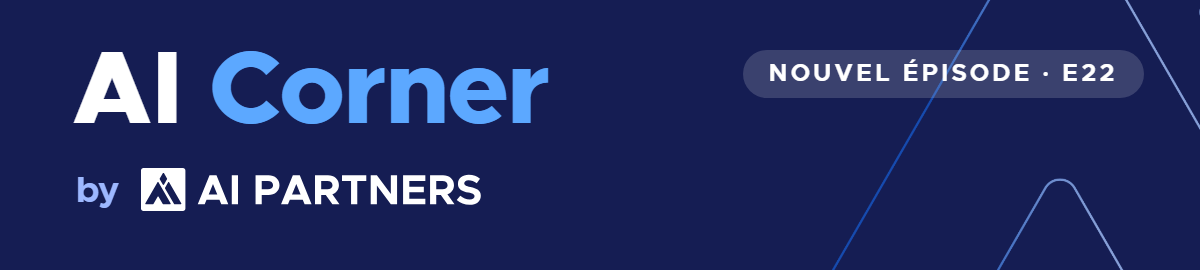
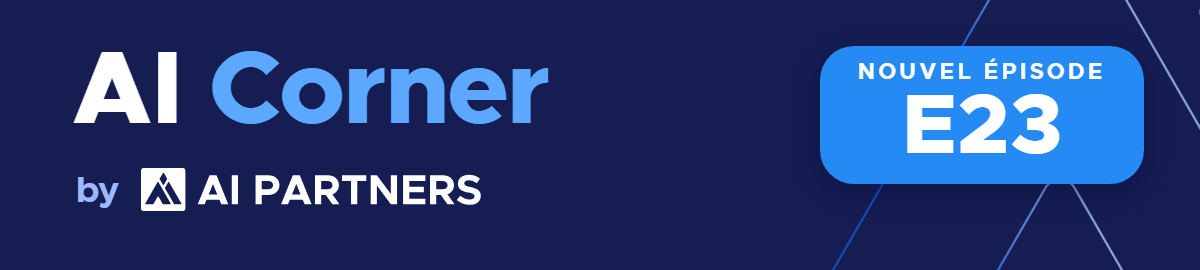
Newsletter E23 : retour au gabarit Duo, même forme et même copywriting que E22 (mosaïque écartée par l'équipe) ; module HubSpot avec jeton LIEN_EPISODE_YOUTUBE (retour d'Arthur 02/11)

Changed region(s): [[0.6167, 0.1481, 0.9558, 0.6815]]

diff --git a/docs/newsletters/E23/email.html b/docs/newsletters/E23/email.html
@@ -1,12 +1,24 @@
 <!doctype html>
 <html lang="fr"><head><meta charset="utf-8"><meta name="viewport" content="width=device-width,initial-scale=1">
 <meta name="color-scheme" content="light"><meta name="supported-color-schemes" content="light">
-<title>🎙 AI Corner E23 : réinventer ses processus avec l&#x27;IA</title>
+<title>🎙 AI Corner E23 : comment Coty déploie l&#x27;IA à grande échelle</title>
 <style>@media (max-width:600px){.col{display:block!important;width:100%!important;box-sizing:border-box!important}.pad{padding-left:22px!important;padding-right:22px!important}.card{display:block!important;width:100%!important;height:auto!important;margin:0 0 12px 0!important}}</style></head>
-<body style="margin:0;padding:0;background:#000000">
-<div style="display:none;max-height:0;overflow:hidden;opacity:0">Nicolas Comestaz (Coty) : 3000 agents créés, et maintenant ? Sa méthode.</div>
-<table role="presentation" width="100%" cellpadding="0" cellspacing="0" bgcolor="#000000"><tr><td align="center" style="padding:24px 12px">
-<table role="presentation" width="680" cellpadding="0" cellspacing="0" bgcolor="#000000" style="width:100%;max-width:680px;border-radius:16px;overflow:hidden">
-<tr><td bgcolor="#000000" height="24" style="font-size:0;line-height:0;height:24px">&nbsp;</td></tr><tr><td bgcolor="#000000" style="font-size:0;line-height:0"><a href="{{lien_youtube}}" style="text-decoration:none"><img src="https://arthurw31.github.io/ai-partners-podcast-content-machine/newsletters/E23/mosaique_entete.png" width="680" alt="AI Corner by AI Partners, épisode E23" style="display:block;width:100%;max-width:680px;border:0"></a></td></tr><tr><td bgcolor="#000000" style="font-size:0;line-height:0"><a href="{{lien_youtube}}" style="text-decoration:none"><img src="https://arthurw31.github.io/ai-partners-podcast-content-machine/newsletters/E23/mosaique_miniature.jpg" width="680" alt="Comment Coty déploie l’IA à grande échelle avec Microsoft Copilot" style="display:block;width:100%;max-width:680px;border:0"></a></td></tr><tr><td bgcolor="#000000" style="font-size:0;line-height:0"><a href="{{lien_youtube}}" style="text-decoration:none"><img src="https://arthurw31.github.io/ai-partners-podcast-content-machine/newsletters/E23/mosaique_haut.png" width="680" alt="Comment Coty déploie l’IA à grande échelle avec Microsoft Copilot Les agents IA se multiplient, l’impact reste difficile à mesurer. Comment passer de l’expérimentation aux processus métier ? Les thèmes abordés. Regarder l&#x27;épisode. 09:32 Former ses équipes à Copilot : Des formations terrain et en ligne, répétées pour mettre vite tout le monde à niveau, après un premier déploiement de 1 000 licences. 12:06 Choisir Microsoft Copilot : Pourquoi Coty l’a choisi : intégré à l’écosystème Microsoft, une sécurité rassurante, et de quoi créer ses propres agents. 22:47 Organiser son équipe IA : Une équipe centrale de 4 pôles et un référent Data &amp; IA dans chaque fonction, pour évangéliser au plus près des métiers. 25:23 Valider les cas d’usage IA : Chaque cas d’usage passe par un comité qui vérifie sécurité et conformité avant déploiement." style="display:block;width:100%;max-width:680px;border:0"></a></td></tr><tr><td bgcolor="#000000" style="font-size:0;line-height:0"><a href="https://calendar.google.com/calendar/appointments/schedules/AcZssZ0_yeSZr-eANdqFosuQLg2jE2smXxRU-eIMCXBA0WC3CynV7uSHwNeGX8FK-0MHDtpLcNiC4f9_?gv=true" style="text-decoration:none"><img src="https://arthurw31.github.io/ai-partners-podcast-content-machine/newsletters/E23/mosaique_fin.png" width="680" alt="Ma phrase préférée : le Head of AI est un architecte. Il comprend assez la technique pour challenger, sans poser le carrelage lui-même. Thomas Spitz Vos équipes testent l&#x27;IA. Et après ? Réserver un échange avec Thomas" style="display:block;width:100%;max-width:680px;border:0"></a></td></tr><tr><td bgcolor="#000000" align="center" style="padding:0 16px"><table role="presentation" width="100%" bgcolor="#FFFFFF" cellpadding="0" cellspacing="0"><tr><td align="center" bgcolor="#FFFFFF" style="padding:0 0 4px"><table role="presentation" align="center" cellpadding="0" cellspacing="0"><tr><td align="center" valign="middle" width="100" style="padding:0 4px;font-size:0;line-height:0"><a href="https://www.youtube.com/playlist?list=PLeeolan_fqxdZbU5xZqEwo12pbqK3fH5N" style="text-decoration:none"><img src="https://arthurw31.github.io/ai-partners-podcast-content-machine/newsletters/E23/mosaique_youtube.png" width="100" height="100" alt="Youtube" style="display:block;width:100px;height:100px;border:0"></a></td><td align="center" valign="middle" width="100" style="padding:0 4px;font-size:0;line-height:0"><a href="https://open.spotify.com/show/4chUmiipM4KiK4sEdL9BeP" style="text-decoration:none"><img src="https://arthurw31.github.io/ai-partners-podcast-content-machine/newsletters/E23/mosaique_spotify.png" width="100" height="100" alt="Spotify" style="display:block;width:100px;height:100px;border:0"></a></td><td align="center" valign="middle" width="100" style="padding:0 4px;font-size:0;line-height:0"><a href="https://podcast.ausha.co/ai-partners-podcast" style="text-decoration:none"><img src="https://arthurw31.github.io/ai-partners-podcast-content-machine/newsletters/E23/mosaique_ausha.png" width="100" height="100" alt="Ausha" style="display:block;width:100px;height:100px;border:0"></a></td></tr></table></td></tr></table></td></tr><tr><td bgcolor="#000000" style="font-size:0;line-height:0"><img src="https://arthurw31.github.io/ai-partners-podcast-content-machine/newsletters/E23/mosaique_plateformes_bas.png" width="680" alt="" style="display:block;width:100%;max-width:680px;border:0"></td></tr>
-<tr><td bgcolor="#000000" class="pad" style="padding:22px 40px;font-family:Helvetica, Arial, sans-serif;font-size:12px;line-height:1.6;color:#B5B5B5">AI Corner, le podcast d'AI Partners.<!--FOOT--></td></tr>
+<body style="margin:0;padding:0;background:#E9EEF9">
+<div style="display:none;max-height:0;overflow:hidden;opacity:0">Nicolas Comestaz (Coty) : former à Copilot, structurer, gouverner, sa méthode</div>
+<table role="presentation" width="100%" cellpadding="0" cellspacing="0" bgcolor="#E9EEF9"><tr><td align="center" style="padding:24px 12px">
+<table role="presentation" width="680" cellpadding="0" cellspacing="0" bgcolor="#FFFFFF" style="width:100%;max-width:680px;border-radius:16px;overflow:hidden">
+<tr><td bgcolor="#151D53"><a href="{{lien_youtube}}" style="text-decoration:none"><img src="https://arthurw31.github.io/ai-partners-podcast-content-machine/newsletters/E23/entete.png" width="680" alt="AI Corner by AI Partners · E23" style="display:block;width:100%;max-width:680px;border:0"></a></td></tr>
+<tr><td><a href="{{lien_youtube}}"><img src="https://arthurw31.github.io/ai-partners-podcast-content-machine/newsletters/E23/miniature_sans_play.jpg" width="680" alt="Thomas Spitz et Nicolas Comestaz" style="display:block;width:100%;max-width:680px"></a></td></tr>
+<tr><td bgcolor="#151D53" class="pad" style="padding:26px 40px 30px 40px;font-family:Helvetica, Arial, sans-serif"><div style="font-size:28px;font-weight:bold;color:#FFFFFF;line-height:1.2">Passer de l&#x27;expérimentation à l&#x27;impact</div><div style="font-size:15px;color:#9DB8FF;padding-top:12px"><strong style="color:#FFFFFF">Thomas Spitz</strong> reçoit <strong style="color:#FFFFFF">Nicolas Comestaz</strong> · VP Global Data &amp; AI Center of Excellence chez Coty</div></td></tr>
+<tr><td bgcolor="#FFFFFF" class="pad" style="padding:30px 40px 0 40px;font-family:Helvetica, Arial, sans-serif;font-size:17px;line-height:1.6;color:#1D2C76"><div style="margin:0 0 16px 0;padding:18px 22px;background-color:#F1F6FD;border-radius:10px;font-size:22px;line-height:1.35;font-weight:bold;color:#151D53">Comment passer de l&#x27;expérimentation à l&#x27;impact quand les agents IA se multiplient dans l&#x27;entreprise ?</div><p style="margin:0 0 16px 0;font-size:17px;line-height:1.6;color:#1D2C76">Vos équipes testent, les cas d&#x27;usage s&#x27;accumulent, et pourtant l&#x27;impact reste difficile à mesurer.</p><p style="margin:0 0 14px 0">Pour ce nouvel épisode d&#x27;AI Corner, j&#x27;ai le plaisir de recevoir <strong>Nicolas Comestaz</strong>, VP Global Data &amp; AI Center of Excellence chez Coty, un des leaders mondiaux de la beauté.</p><p style="margin:0 0 14px 0">Il a pris cette fonction, créée il y a deux ans, après avoir mené une transformation data et IA côté métier sur le média et le marketing digital, et il a passé les vingt dernières années au contact des grandes transformations digitales, notamment chez LVMH.</p><p style="margin:0 0 14px 0">Avec lui, j&#x27;ai voulu comprendre concrètement ce qu&#x27;il a mis en place chez Coty : l&#x27;évangélisation, la gouvernance, puis ce passage délicat de l&#x27;expérimentation à l&#x27;impact réel sur les processus.</p></td></tr>
+<tr><td align="center"><table role="presentation" cellpadding="0" cellspacing="0" style="margin:28px auto"><tr><td bgcolor="#484E78" style="border-radius:999px;padding:0 0 4px 0"><table role="presentation" cellpadding="0" cellspacing="0"><tr><td bgcolor="#151D53" style="border-radius:999px"><table role="presentation" cellpadding="0" cellspacing="0"><tr><td valign="middle" style="padding:16px 12px 16px 36px;line-height:1"><a href="{{lien_youtube}}" style="font-family:Helvetica, Arial, sans-serif;font-size:16px;font-weight:bold;letter-spacing:.04em;color:#FFFFFF;text-decoration:none">REGARDER L&#x27;ÉPISODE</a></td><td valign="middle" width="24" style="padding:0 30px 0 0;line-height:0;font-size:0"><a href="{{lien_youtube}}" style="text-decoration:none"><img src="https://arthurw31.github.io/ai-partners-podcast-content-machine/newsletters/E23/bouton_play.png" width="24" height="24" alt="" style="display:block;width:24px;height:24px;border:0"></a></td></tr></table></td></tr></table></td></tr></table></td></tr>
+<tr><td class="pad" style="padding:6px 34px 0 34px;font-family:Helvetica, Arial, sans-serif">
+ <div style="font-size:20px;font-weight:bold;color:#151D53;padding:0 6px 14px 6px">Au programme de cet épisode</div>
+ <table role="presentation" width="100%" cellpadding="0" cellspacing="0"><tr><td style="font-size:0;line-height:0"><div class="card" style="display:inline-block;vertical-align:top;width:48.5%;margin:0 .75% 12px .75%;box-sizing:border-box;background-color:#F1F6FD;border-radius:14px;padding:16px 16px 18px 16px;height:203px;text-align:left;font-family:Helvetica, Arial, sans-serif;font-size:14px;line-height:1.5;color:#1D2C76"><table role="presentation" width="100%" cellpadding="0" cellspacing="0"><tr><td style="font-size:22px;font-weight:bold;color:#258AF3;padding-bottom:6px;font-family:Helvetica, Arial, sans-serif">01</td><td align="right" valign="top" style="padding-bottom:6px"><img src="https://arthurw31.github.io/ai-partners-podcast-content-machine/newsletters/E23/icone_users.png" width="28" height="28" alt="" style="display:block;width:28px;height:28px;border:0"></td></tr></table><strong style="color:#151D53;font-size:16px;line-height:1.3">Former ses équipes à Copilot</strong><br>Près de 1000 licences pour démarrer, puis le programme SuperCharge AI : des formations terrain et en ligne, répétées pour mettre vite tout le monde à niveau.</div><div class="card" style="display:inline-block;vertical-align:top;width:48.5%;margin:0 .75% 12px .75%;box-sizing:border-box;background-color:#F1F6FD;border-radius:14px;padding:16px 16px 18px 16px;height:203px;text-align:left;font-family:Helvetica, Arial, sans-serif;font-size:14px;line-height:1.5;color:#1D2C76"><table role="presentation" width="100%" cellpadding="0" cellspacing="0"><tr><td style="font-size:22px;font-weight:bold;color:#258AF3;padding-bottom:6px;font-family:Helvetica, Arial, sans-serif">02</td><td align="right" valign="top" style="padding-bottom:6px"><img src="https://arthurw31.github.io/ai-partners-podcast-content-machine/newsletters/E23/icone_target.png" width="28" height="28" alt="" style="display:block;width:28px;height:28px;border:0"></td></tr></table><strong style="color:#151D53;font-size:16px;line-height:1.3">Choisir Microsoft Copilot</strong><br>Pourquoi Coty a retenu l&#x27;écosystème Microsoft : un copilote intégré, des contrats et une sécurité rassurants, et de quoi créer ses propres agents (Azure Foundry).</div><div class="card" style="display:inline-block;vertical-align:top;width:48.5%;margin:0 .75% 12px .75%;box-sizing:border-box;background-color:#F1F6FD;border-radius:14px;padding:16px 16px 18px 16px;height:203px;text-align:left;font-family:Helvetica, Arial, sans-serif;font-size:14px;line-height:1.5;color:#1D2C76"><table role="presentation" width="100%" cellpadding="0" cellspacing="0"><tr><td style="font-size:22px;font-weight:bold;color:#258AF3;padding-bottom:6px;font-family:Helvetica, Arial, sans-serif">03</td><td align="right" valign="top" style="padding-bottom:6px"><img src="https://arthurw31.github.io/ai-partners-podcast-content-machine/newsletters/E23/icone_cycle.png" width="28" height="28" alt="" style="display:block;width:28px;height:28px;border:0"></td></tr></table><strong style="color:#151D53;font-size:16px;line-height:1.3">Organiser son équipe IA</strong><br>Une équipe centrale de quatre pôles et des Data &amp; AI domain owners dans chaque fonction : un modèle Hub &amp; Spoke pour évangéliser au plus près des métiers.</div><div class="card" style="display:inline-block;vertical-align:top;width:48.5%;margin:0 .75% 12px .75%;box-sizing:border-box;background-color:#F1F6FD;border-radius:14px;padding:16px 16px 18px 16px;height:203px;text-align:left;font-family:Helvetica, Arial, sans-serif;font-size:14px;line-height:1.5;color:#1D2C76"><table role="presentation" width="100%" cellpadding="0" cellspacing="0"><tr><td style="font-size:22px;font-weight:bold;color:#258AF3;padding-bottom:6px;font-family:Helvetica, Arial, sans-serif">04</td><td align="right" valign="top" style="padding-bottom:6px"><img src="https://arthurw31.github.io/ai-partners-podcast-content-machine/newsletters/E23/icone_bulb.png" width="28" height="28" alt="" style="display:block;width:28px;height:28px;border:0"></td></tr></table><strong style="color:#151D53;font-size:16px;line-height:1.3">Valider les cas d&#x27;usage</strong><br>Tout cas d&#x27;usage déployé par une fonction passe par l&#x27;AI Board, qui en revoit la sécurité et la conformité pour ne pas mettre l&#x27;organisation à risque.</div></td></tr></table></td></tr>
+<tr><td align="center" style="padding:10px 24px 0 24px;font-family:Helvetica, Arial, sans-serif;font-size:16px;font-weight:bold;color:#151D53">Retrouvez l'épisode complet sur YouTube</td></tr>
+<tr><td align="center" style="padding:14px 24px 0 24px"><a href="{{lien_youtube}}"><img src="https://arthurw31.github.io/ai-partners-podcast-content-machine/newsletters/E23/episode_youtube.jpg" width="632" alt="Comment Coty déploie l’IA à grande échelle avec Microsoft Copilot" style="display:block;width:100%;max-width:632px;border-radius:14px"></a></td></tr>
+<tr><td bgcolor="#FFFFFF" class="pad" style="padding:30px 40px 36px 40px;font-family:Helvetica, Arial, sans-serif;font-size:17px;line-height:1.6;color:#1D2C76"><p style="margin:0 0 18px 0">Ce qui m&#x27;a frappé dans cette conversation, c&#x27;est sa comparaison du Head of AI avec un architecte : celui qui comprend assez la technique pour challenger, sans prétendre poser le carrelage. J&#x27;espère que cet échange vous sera aussi utile qu&#x27;il l&#x27;a été pour moi.</p><p style="margin:0;font-weight:bold;color:#151D53">Thomas Spitz<br>CEO et fondateur d'AI Partners</p></td></tr>
+<tr><td bgcolor="#F1F6FD" align="center" class="pad" style="padding:34px 40px 36px 40px;font-family:Helvetica, Arial, sans-serif"><div style="font-size:22px;font-weight:bold;color:#151D53;line-height:1.3">Vos équipes testent l&#x27;IA. Et après ?</div><div style="font-size:16px;line-height:1.55;color:#1D2C76;padding-top:8px">Passons de l&#x27;expérimentation à l&#x27;impact : 30 minutes avec moi pour en parler.</div><table role="presentation" cellpadding="0" cellspacing="0" style="margin:22px auto 0 auto"><tr><td bgcolor="#484E78" style="border-radius:999px;padding:0 0 4px 0"><table role="presentation" cellpadding="0" cellspacing="0"><tr><td bgcolor="#151D53" style="border-radius:999px"><a href="https://calendar.google.com/calendar/appointments/schedules/AcZssZ0_yeSZr-eANdqFosuQLg2jE2smXxRU-eIMCXBA0WC3CynV7uSHwNeGX8FK-0MHDtpLcNiC4f9_?gv=true" style="display:inline-block;padding:16px 34px;font-family:Helvetica, Arial, sans-serif;font-size:16px;font-weight:bold;color:#FFFFFF;text-decoration:none;letter-spacing:.02em">Réserver un échange avec Thomas</a></td></tr></table></td></tr></table></td></tr>
+<tr><td bgcolor="#1D2C76"><a href="https://www.youtube.com/playlist?list=PLeeolan_fqxdZbU5xZqEwo12pbqK3fH5N" style="text-decoration:none"><img src="https://arthurw31.github.io/ai-partners-podcast-content-machine/newsletters/E23/plateformes_titre.png" width="680" alt="Écoutez AI Corner partout" style="display:block;width:100%;max-width:680px;border:0"></a></td></tr><tr><td bgcolor="#1D2C76" align="center" style="padding:0 14px 38px 14px"><table role="presentation" align="center" cellpadding="0" cellspacing="0"><tr><td align="center" valign="middle" width="96" style="padding:0 8px"><a href="https://www.youtube.com/playlist?list=PLeeolan_fqxdZbU5xZqEwo12pbqK3fH5N" style="text-decoration:none"><img src="https://arthurw31.github.io/ai-partners-podcast-content-machine/newsletters/E23/plateforme_youtube.png" width="80" height="80" alt="YouTube" style="display:block;width:80px;height:80px;border:0"></a></td><td align="center" valign="middle" width="96" style="padding:0 8px"><a href="https://open.spotify.com/show/4chUmiipM4KiK4sEdL9BeP" style="text-decoration:none"><img src="https://arthurw31.github.io/ai-partners-podcast-content-machine/newsletters/E23/plateforme_spotify.png" width="80" height="80" alt="Spotify" style="display:block;width:80px;height:80px;border:0"></a></td><td align="center" valign="middle" width="96" style="padding:0 8px"><a href="https://podcast.ausha.co/ai-partners-podcast" style="text-decoration:none"><img src="https://arthurw31.github.io/ai-partners-podcast-content-machine/newsletters/E23/plateforme_ausha.png" width="80" height="80" alt="Ausha" style="display:block;width:80px;height:80px;border:0"></a></td></tr></table></td></tr>
+<tr><td bgcolor="#151D53" class="pad" style="padding:22px 40px;font-family:Helvetica, Arial, sans-serif;font-size:12px;line-height:1.6;color:#9DB8FF">AI Corner, le podcast d'AI Partners.<br>Vous recevez ce mail car vous êtes en contact avec AI Partners. <a href="{{lien_desinscription}}" style="color:#8A93B2">Se désinscrire</a></td></tr>
 </table></td></tr></table></body></html>

diff --git a/clipper/newsletter.py b/clipper/newsletter.py
@@ -491,13 +491,12 @@ def send_ready(brand, ep: Path, mail: dict) -> dict:
         h = h.replace("AI Corner, le podcast d'AI Partners.</p>", "AI Corner, le podcast d'AI Partners." + unsub + "</p>", 1)
     out = d / "email_a_envoyer.html"
     out.write_text(h, encoding="utf-8")
-    if "mosaique_haut" in h and "{{lien_youtube}}" in h:     # mosaïque, lien pas encore connu : jeton à remplacer (HubSpot lirait {{ }} comme du HubL)
-        (d / "email_hubspot_module.html").write_text(hubspot_module(h.replace("{{lien_youtube}}", "LIEN_EPISODE_YOUTUBE")), encoding="utf-8")
-    elif "{{lien_youtube}}" not in h:                    # module HubSpot : seulement si le lien de l'épisode est connu
-        try:
-            (d / "email_hubspot_module.html").write_text(hubspot_module(h), encoding="utf-8")
-        except RuntimeError:                             # gabarit sans les 4 cartes du Duo (ex. « mosaique », en images) : pas de module
-            pass
+    link_unknown = "{{lien_youtube}}" in h               # lien de l'épisode pas encore connu : jeton à remplacer (HubSpot lirait {{ }} comme du HubL)
+    try:
+        (d / "email_hubspot_module.html").write_text(
+            hubspot_module(h.replace("{{lien_youtube}}", "LIEN_EPISODE_YOUTUBE") if link_unknown else h), encoding="utf-8")
+    except RuntimeError:                                 # gabarit sans cartes reconnues : pas de module
+        pass
     (pub / "email.html").write_text(h, encoding="utf-8")
     subject = (src / "objet.txt").read_text(encoding="utf-8") if (src / "objet.txt").exists() else ""
     m = re.search(r"Objet\s*:\s*(.+)", subject)

diff --git a/CLAUDE.md b/CLAUDE.md
@@ -134,7 +134,10 @@ Puis noter la demande et sa date dans la section concernée de ce fichier.
   annoncer en une ligne le temps attendu d'après le tableau de [docs/FRAMEWORK.md](docs/FRAMEWORK.md) / README (ex. « rendu de 4 shorts :
   ≈ 40 min »), puis la durée réelle si elle s'en écarte. Règle de comportement (pas de code) : dans le skill `podcast-clips` et la mémoire.
 
-## Gabarit de mail « mosaïque » (Arthur, 02/11/2026)
+## Gabarit de mail « mosaïque » (Arthur, 02/11/2026) : ÉCARTÉ par l'équipe le même jour
+
+- **Décision d'Arthur (02/11/2026) : « mon équipe aime pas cette newsletter, mets-la de côté et on repart sur l'ancienne, exactement la même forme et le même copywriting que celle d'E22, mais pour Coty »** : E23 est donc au gabarit **Duo** (`newsletter.template: duo`, inchangé), rédigé comme le mail E22 (bandeau « Nouvel épisode », thème, question d'accroche puis constat, intro en 3 paragraphes, 4 cartes « Au programme » avec icônes, vignette YouTube, mot de Thomas, réservation, plateformes). Cartes du programme de E23 = sujets concrets et actionnables (former à Copilot, choisir Copilot, organiser son équipe IA, valider les cas d'usage). Le gabarit mosaïque reste dans le code (`--template mosaique`) mais n'est plus utilisé ; les notes ci-dessous valent si l'équipe le reprend.
+- Module HubSpot : `newsletter --envoi` l'écrit AUSSI quand le lien de l'épisode est inconnu, avec le jeton `LIEN_EPISODE_YOUTUBE` (à remplacer à la main ou via `--youtube-url`).
 
 - Demande : mail « vraiment tech, web3, clean et épuré », noir et blanc, calqué sur une référence (site « Technology that connects » : cartes
   arrondies qui s'emboîtent) ; en-tête et miniature en couleur comme le Duo, puis UNE forme blanche à coins arrondis qui descend du titre
